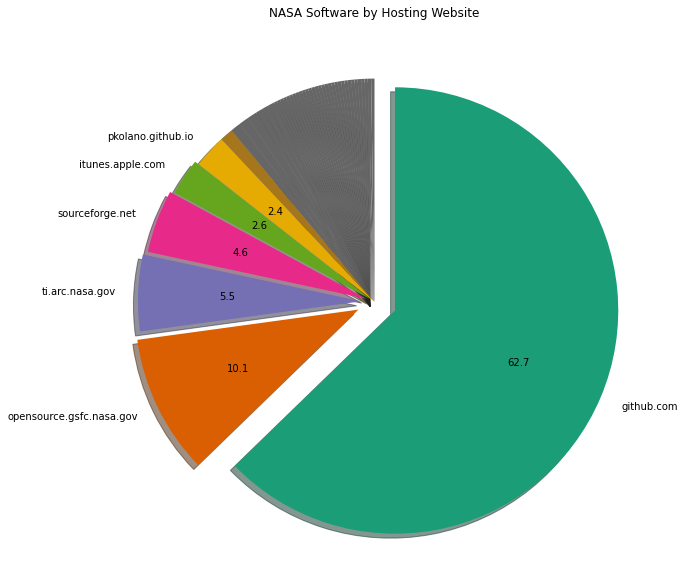
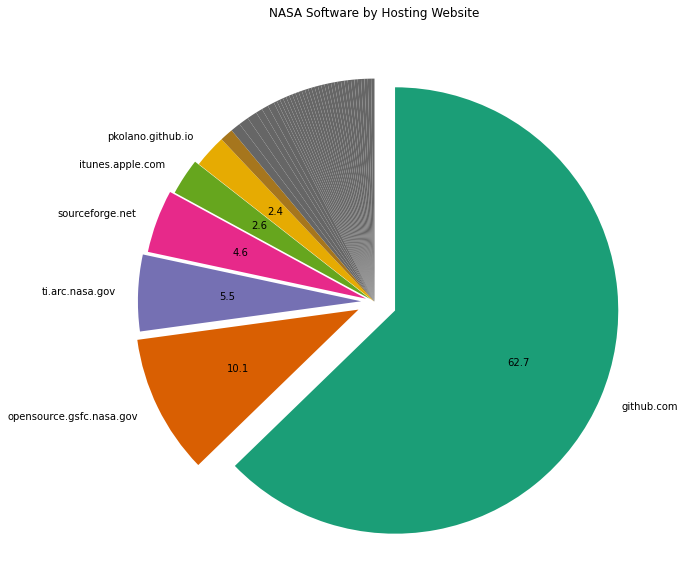
deploy: ad936a2a57856fea38a54e28b867067ce280c618

diff --git a/searchindex.js b/searchindex.js
@@ -1,1 +1,1 @@
-Search.setIndex({docnames:["content/NASA","content/bird","content/cryptanalysis","content/crypto_tools","content/fiction","content/git_scraping","content/interview_with_xinof","content/labeling","content/matplotblog","content/mod26","content/no_padding_no_problem","content/nonfiction","content/photos","content/sklearn_sprint","content/stumpy_tutorial","content/the_numbers","intro"],envversion:{"sphinx.domains.c":2,"sphinx.domains.changeset":1,"sphinx.domains.citation":1,"sphinx.domains.cpp":4,"sphinx.domains.index":1,"sphinx.domains.javascript":2,"sphinx.domains.math":2,"sphinx.domains.python":3,"sphinx.domains.rst":2,"sphinx.domains.std":2,"sphinx.ext.intersphinx":1,"sphinxcontrib.bibtex":7,sphinx:56},filenames:["content/NASA.ipynb","content/bird.ipynb","content/cryptanalysis.md","content/crypto_tools.ipynb","content/fiction.md","content/git_scraping.md","content/interview_with_xinof.md","content/labeling.md","content/matplotblog.md","content/mod26.ipynb","content/no_padding_no_problem.ipynb","content/nonfiction.md","content/photos.md","content/sklearn_sprint.md","content/stumpy_tutorial.md","content/the_numbers.ipynb","intro.md"],objects:{},objnames:{},objtypes:{},terms:{"0":[0,1,3],"0007000000000000001":3,"001":3,"0011":3,"0017000000000000001":3,"0069":3,"01":5,"0111":3,"0149":3,"018178":1,"0182":3,"02":[0,1],"0203":3,"0209":3,"021099999999999997":3,"023":3,"026099999999999998":3,"0271":3,"0288":3,"0398":3,"0432":3,"04549":1,"0592":3,"0602":3,"06280000000000001":3,"0695":3,"0731":3,"0768":3,"0812":3,"08735":1,"087355":1,"091":3,"1":[0,1,3,9,13,15],"10":[0,1],"100":0,"101":0,"102":0,"109":0,"11":[0,1],"118":0,"12":[0,1,3],"120199559973193838354549892082142658207097650252359537516083460817553570005386613360986166000912493892791691164047531246715465233526804393369018699102692997585282405404929642411769685589191403004314951464004606040856090582644697868607882790061040095046085624676496925724241831512872034324551286084224297842637":10,"13":[0,9,15],"14":[0,1,15],"140":0,"144":9,"15":[0,11,15],"16":[0,15],"17":0,"178":1,"178285":1,"18":15,"184":3,"186":3,"189":3,"19":[0,15],"192":10,"19680801":[],"1f":0,"2":[0,1,3,9,10,13,15],"20":[0,12,15],"2014":[],"2021":[1,5,12],"21":15,"2191868119":[],"22":5,"229":0,"24":0,"26":[1,3,9],"27":[0,1],"29":0,"290275030195850039473456618367455885069965748851278076756743720446703314517401359267322769037469251445384426639837648598397":10,"3":[0,1,3,13,15],"300":1,"31":0,"33":0,"33982":1,"34":0,"35":0,"357389":1,"35739":1,"36":1,"39":0,"4":[1,3,11,13],"40":[0,13],"41":[0,1],"43":0,"44":0,"460":1,"5":[0,1,13,15],"50":0,"52":1,"53":1,"56":0,"57":1,"58":[0,1],"580550060391700078946913236734911770139931497702556153513487440893406629034802718534645538074938502890768853279675297196794":10,"6":[13,15],"65537":10,"67":0,"68":15,"7":13,"70":7,"738":1,"76":1,"7663878604603605176178448503196010884137598661534924550657029084967288918950468353300685296575323894095255258617919415054374805989359325652736220230210866108008415526260085801082953500312514266232101295493572110042773495662486665996281526563951110999276024750039987398638060394996693137783011654264697917058":10,"79":[0,1],"791329":1,"8":[1,15],"81":1,"82":1,"9":[1,15],"90":0,"91817":1,"918172":1,"934757":1,"93476":1,"abstract":11,"break":0,"case":[1,7,13],"class":[7,8],"default":1,"do":[2,7,9,13],"final":13,"float":3,"function":[3,13],"import":[0,1,3,9,15],"int":[3,9,10,15],"long":[5,13],"new":[11,13,14],"public":1,"return":[0,3,9,10],"short":[11,13],"switch":13,"true":[0,1,3],"try":3,"while":13,A:[2,13],As:[8,11,13],At:[],Be:13,But:7,By:[1,13],For:[7,10,11],IN:2,If:[7,11],In:[1,5,7,12,13],It:[1,2,4,10,11,13],No:11,Not:4,On:[11,13],One:3,That:[1,13],The:[2,4,5,11,12,13],Their:2,There:[1,11,13],These:2,To:13,With:13,ab:3,abil:13,abl:13,about:[4,7,11,12,13],accept:[7,10],access:13,accru:[],accumul:16,accur:7,accuraci:[1,7],achiev:[10,13],action:5,activ:13,actual:[1,12],ad:13,add:[7,13],add_:[],add_list:7,addition:13,address:1,advent:16,adventur:[11,13],advic:11,aerospac:0,after:13,afterward:7,again:[],against:[3,11],agenc:5,agre:13,ai:13,alba:1,algorithm:7,align:[],all:13,alli:13,allow:[7,12],almost:13,along:[1,11,13],alpha:3,alphabet:[3,9,11,15],alreadi:[7,11,13],also:[1,5,11,13],altern:13,alwai:[1,13],am:13,amaz:13,amazon:4,ambiti:13,an:[1,2,4,7,10,11,13],analysi:[2,5,6,14],ancient:2,anecod:11,ani:[5,13],announc:5,anoth:[1,10,12,13],anyth:[3,9,10,13],api:[0,1],api_kei:0,app:1,append:[0,7],appli:[2,11,13],applic:[11,13],appreci:13,approach:13,approv:13,ar:[1,5,11,12,13],arc:0,ardea:1,area:[11,13],aren:12,argument:13,arkg_gvzr_v:9,armi:16,around:13,arrai:0,art:8,ascend:0,ascii:[3,9],ascii_lowercas:[3,9,15],ash:6,asid:11,ask:13,aspir:13,assign:[7,13],associ:[],attack:[2,10],attract:12,auditori:[],august:12,australia:[],autom:0,automat:7,autopct:0,avail:[5,13],aw:[5,16],awai:12,awesom:13,ax:[0,1],axi:[0,1],b:3,back:[1,2,11,13],balboa:12,bald:1,baleag:1,barh:0,barn:12,barrier:14,beach:12,becaus:13,been:13,befor:[12,13],begin:13,being:[5,13],belong:3,belt:13,benefit:13,best:13,between:5,bewar:3,bia:1,bib:[],bibliographi:[],bibtex:[],bilinear:0,binari:[7,13],bind:5,biol222:8,biotechnolog:0,bird:1,bit:[13,16],block:2,blog:[6,8,13],bodi:[4,12],book:[2,4,11],bool:3,boost:13,bootstrap:13,both:[3,11,13],bound:11,box:[],brian:[],brisban:[],bruce:2,bui:12,build:[5,13],built:11,busi:12,buteo:1,bytearrai:10,c:[3,10],calcul:3,call:[5,13],camoflaug:12,can:[1,7,9,10,11,12,13],candid:[3,13],canva:7,capit:11,captur:12,carmichael:3,carolina:8,carri:1,cascad:5,catalog:5,categor:1,categori:[0,9,15],categorize_sourc:0,causal:11,causat:11,cell:[],certain:[1,11],challeng:2,chang:13,channel:13,chat:13,check:13,chew:11,chi:3,china:4,chines:3,chisquar:3,choic:3,christoph:[],cipher:[2,10],ciphertext:[3,10],ciphertext_p:3,ciphertext_q:3,cisa:5,cite:[],claim:13,clarifi:13,classif:7,classifi:[4,13],clean:7,cleaner:12,clear:13,close:[1,6],closur:6,cluster:7,cm:[],cmap:0,coast:13,coat:0,code:[2,13,16],codebas:13,codebreak:2,cognit:[],cold:[],collect:[0,3,11],color:[0,1,12],colormap:0,column:0,com:0,comgal1:1,command:[],comment:13,commit:[5,13],common:[1,2],commonmark:[],commun:[0,2,8,13],comnam:1,compare_frequ:3,competit:12,complex:[],composit:12,comprehens:2,comput:2,confair:1,confer:13,confid:13,conscious:11,consid:[1,2],consider:1,content:[],context:4,continu:[11,13],contribut:[13,14],contributor:[13,14],control:[0,13],conveni:13,convers:13,convinc:12,cool:13,coolwarm:[],coordin:[1,7],core:13,coronata:1,correct:7,correl:7,cortex:[],cost:12,could:13,count:0,counter:0,counterclock:0,counterfactu:11,countri:[1,11],coupl:[5,13],cours:2,cover:[2,11,13],cp:3,cq:3,crack:11,creat:[8,14],create_description_wordcloud:0,crosstab:0,crt:3,crypto:2,cryptographi:[2,9],cryptosystem:2,cultur:4,curat:13,current:[5,13,16],curv:2,custom_lin:[],cvpbpg:9,cyber:16,cycler:[],d:[1,3,11],dai:[11,12,13],dark2:0,dashboard:5,data:[5,13],datafram:[0,1],dataset:[1,5],date:[2,11],daunt:13,de:[],decid:13,decis:13,decod:10,decreas:13,decrypt:[3,10],decrypt_crt:3,dedic:13,def:[0,3,7,9],defaultdict:3,defin:7,degre:7,deliber:13,demonstr:12,dens:2,denver:11,depend:[],descript:0,design:[0,13],designator1:0,designator2:0,detect:[4,7],develop:13,df:[0,1],dfrc:0,dict:[0,3],did:13,diego:12,differ:[5,13],dimension:7,direct:[5,13],directli:[],discord:13,discuss:13,displai:[],distribut:[3,5],doc:[],document:[1,13,16],doe:[2,5],doesn:[4,11],dollar:[],don:4,done:13,doubl:10,down:[0,6,13],draft:11,drew:3,drip:12,drum:1,ds:13,dtype:0,dure:13,e:[0,3,10],each:[7,13],eagl:1,earli:11,earn:12,easi:[7,9,13],east:13,ebird_api:1,ecosystem:[],editor:11,educ:13,egret:1,egypt:2,either:2,electr:0,electron:0,ellipt:2,els:[0,3,9,15],emb:[],emot:4,en:14,en_freq:3,enabl:[5,7,13],encourag:13,end:[3,13],engag:[11,13],engima:11,enjoi:[11,12,13],enough:7,ensur:13,entertain:[2,4,11],entir:[],entri:0,enumer:[0,3],environ:[0,11,13],escap:[],esoter:11,especi:13,establish:11,estim:11,estuarin:12,etc:[2,11],even:[11,13],event:[7,13],eventu:13,ever:12,everi:[1,12],everyon:12,everyth:13,evid:[],exampl:[7,10,13],except:3,excit:13,exercis:2,exist:[],exot:1,expect:[1,3],experi:[12,13],explod:0,exploit:5,explor:11,exposur:11,extend:7,extens:7,f:[1,3,7],factor:3,fail:13,failur:5,faint:4,fairli:11,fall:11,fals:[0,1,3],fast:3,faster:13,favorit:[11,13,14],feasibl:13,featur:[7,13],feder:5,feedback:13,feel:13,fellow:13,felt:13,fermat:3,fi:4,field:[2,13],fig:[0,1],figsiz:[0,1],figur:13,find:[11,13],finish:13,first:[4,12,13],fish:12,fit:4,fix:[],fl:1,flavor:[],flexibl:13,fluid:0,fly:12,focus:[2,11],follow:13,fonixcrypt:6,fool:12,foothold:13,forest:13,formal:11,format:10,former:16,forth:13,forward:[4,13],found:13,foundat:[5,13],frame:4,free:[1,13],freq:3,frequenc:[2,3],friend:[2,13],friendli:12,froemr:[],from:[0,2,3,6,7,9,10,11,13,14,15],from_record:[0,1],fromhex:10,frontier:[],full:1,fun:[2,4,11,13],fundrais:11,further:7,futur:13,g:3,galeata:1,gallinul:1,gallinula:1,game:13,gave:13,gchq:11,gener:[0,5,7],genr:[4,12],gentlemen:12,geograph:1,geoloc:1,geopanda:1,georgia:16,get:[1,11,13],get_cmap:0,get_path:1,getenv:[0,1],git:13,github:[5,13],give:[5,10,13],given:[3,9],glad:13,go:[2,13],goal:13,good:[2,7,10,13],googl:11,gorda:1,got:[12,13],gov:0,gpd:1,gradient:12,grant:13,grassland:12,gravit:12,grc:0,great:[1,2,4,13],greatli:13,greegr:1,green:11,greensboro:1,group:[2,13],groupbi:0,grow:13,gsfc:0,gui:12,guid:[2,7,14],h:[1,3],ha:[4,13],habit:13,hacktoberfest:14,had:[7,13],half:10,halfwai:13,haliaeetu:1,handl:[7,13],hang:13,hard:[1,13],have:[1,7,10,12,13],hawk:1,hdhpk14:[],he:[5,11,12],head:[0,1],health:0,heard:13,heart:4,heat:12,heer:[],help:[11,13],here:[1,5,12,13],hi:12,highli:11,highlight:13,highwai:1,histor:13,histori:2,hobbi:[12,13],hold:13,holdgraf:[],holdgraf_evidence_2014:[],home:1,homework:13,honest:13,hot:[],hour:[7,13],how:[5,7,11,12,13],howev:[1,11],howmani:1,html:14,http:[0,1,6,8,9,14,15],huddl:13,huge:13,human:11,hunt:12,i:[0,1,2,3,5,6,7,8,11,12,13,14],idea:[4,5,11,13],ideal:13,ii:11,illustr:[2,13],imag:[],immedi:[11,13],imperi:12,implement:[2,13],improv:13,imshow:0,includ:13,includeprovision:1,inclus:13,increas:13,incred:[4,12,13],index:[0,3,7,9],indexerror:3,indic:13,inform:[0,1],init:[],input:[],insecur:1,insert:[],insid:[],insight:11,instead:[7,13],instrument:0,int64:0,integ:10,integr:13,intellectu:16,intend:13,intens:2,interact:7,interest:[5,11,13],intern:[],internet:2,interpol:0,interview:[],intro:[],introduct:[2,13],invit:11,involv:[2,13],io:[0,14],ion:[],ipykernel_498:[],ipynb:[],is_prime_fermat:3,isn:[7,12],iso_a3:1,isol:11,issu:13,itali:12,its:[11,13],j:3,jackson:1,jamaicensi:1,job:2,john:11,joi:2,join:[0,3,9,15],joke:13,journal:11,jpl:0,jsc:0,json:[0,1],jump:13,junior:13,jupyt:7,jupytext:[],just:[4,7,12,13],k:3,kedit:11,keep:[],kei:[0,1,3,7,13],kept:13,kernel:[],key_press_ev:7,keyword:13,kind:0,king:11,knight:[],knock:13,know:[1,5,9,10,11,13],knowledg:[11,16],known:[2,5,10],korea:4,ksc:0,l13621404:1,l17018671:1,l17018703:1,l17018716:1,l:3,la_:[],label:0,lack:11,ladder:11,ladi:13,lang_dict:3,languag:3,larc:0,larg:13,last:[1,13],lat:1,late:7,later:13,latest:14,latitud:1,layer:12,lazi:12,leak:1,learn:[],least:1,leav:13,left:13,legend:[],len:[0,1,3],length:3,lengthi:11,less:[],lesson:[6,13],letter:[3,9],leucocephalu:1,level:13,librari:[13,14],licens:0,life:4,lightgrei:1,like:[1,3,12,13],likewis:7,liklihood:3,line2d:[],line:[],linkedin:16,linspac:[],list:[0,1,3,5,7,13],littl:[12,13],ll:[0,10],ll_try_2_rounds_of_rot13_hwqfsgzu:9,lng:1,local:12,locat:[1,7,13],locationpriv:1,locid:1,locnam:1,log:3,logic:2,logspac:[],longitud:1,look:[0,13],lookup:3,lot:[7,13],lower:[3,9,14],lowercas:[3,9],lstrip:0,luck:10,luxuri:13,lw:[],m4yb3_th0se_m3s54g3s_4r3_difurrent_1772735:10,m:[3,5,12],machin:13,made:13,madman:[],mai:[1,7,11,13],main:7,mainli:2,maintain:13,major:7,make:[7,13],malleabl:10,manag:11,mani:[2,11,13],manufactur:0,markedli:[],market:12,markup:[],master:4,materi:[0,11,13],math:[2,16],matplotlib:[0,1,7,8],maxim:13,mbox:[],md:[],me:[7,11,12,13],mean:[],mechan:0,medicin:0,medium:[],meet:12,member:13,memori:1,messag:[10,13],metadata:[],method:7,metro:13,might:13,minist:11,minut:13,mistak:2,ml:13,mod_multiplicative_invers:3,model:7,modern:2,modul:[],modulenotfounderror:[],monoalphabet:3,month:13,more:[1,3,11,13],moreov:[],most:13,most_common:0,mouseov:7,move:1,mover:13,mpl_connect:7,msfc:0,much:[11,13],multiclass:7,multipl:1,must:3,my:[7,11,12,13,14,16],mydirectivenam:[],n:[3,9,10],name:[0,1,11],narr:11,nasa_api:0,nation:12,natur:[12,13],naturalearth_lowr:1,nb:[],nc:1,neatli:4,necessari:7,need:[7,13],net:0,neurosci:[],next:[7,13],next_time_i:9,nicknam:1,night:13,noir:4,non:[1,2,13],none:3,north:[4,8],note:[2,3],notebook:[],novel:4,novemb:[5,12],now:13,np:0,nuanc:13,numpi:0,nyc:13,o:3,ob:1,obsdt:1,observ:3,obsreview:1,obsvalid:1,obtain:3,octob:12,off:[0,1,13],often:13,old:[2,11,13],omsc:16,onc:5,one:[1,13,14],ongo:13,onkei:7,onli:[1,4,5,11,13],open:[13,14],oper:[5,6,7],opportun:13,optic:0,option:13,oracl:[7,10],org:[0,1,6,8,9,15],organ:13,origin:[4,13],orphan:4,os:[0,1],other:[1,7,11,13],otherwis:13,otp:2,our:13,out:[4,12,13],outag:5,outliv:13,output:[],over:[1,7,13],owl:12,own:[11,13],p:3,paar:[3,10],page:[9,15],pai:11,pair:13,panda:[0,1],paramet:13,pari:13,park:12,part:[4,8,11,13],particip:[11,13],particularli:12,partner:13,paslei:[],pass:[3,9,13],patch:5,path:[],pattern:5,pct:0,pd:[0,1],peak:7,pearl:11,pennsyl:1,peopl:[11,13],perfect:7,person:[1,13],perspect:13,pezl:3,pg:3,phenomen:13,philosophi:13,phonet:11,pick:[11,13],picoctf:2,pie:0,piec:[5,11],pier:12,pike:12,pin:1,pioneer:5,pipelin:13,pit:11,place:[1,12],plai:[1,9,15],plain_p:3,plain_q:3,plainfield:1,plaintext:[2,10],plan:13,plot:[0,1,7],plt:[0,1],plug:11,point:[13,16],ponto:12,pooch:12,popular:13,posit:[3,7],post:8,pow:10,power:0,practic:[9,15],practition:2,pre:[],predict:[4,7],prepar:13,preparatori:13,pretti:12,primal:3,primari:13,prime:11,principl:7,print:[1,10],privaci:1,prize:4,probabalist:3,probabl:[7,13],problem:[1,4,7],product:[7,13],profess:2,profession:11,program:13,programm:13,progress:13,project:[1,13,14],prompt:11,prop_cycl:[],properli:[],propos:13,propuls:0,prototyp:[3,13],proud:12,provid:[0,13],publish:[8,11],pulitz:4,pull:13,punta:1,pure:4,purpos:[],put:13,puzzl:11,puzzler:11,py:[],pyladi:13,pyplot:[0,1,8],python:13,pythonista:13,q:3,quantum:2,quarantin:12,quick:13,quit:13,r:[0,1,3],race:13,rail:12,rais:3,rambl:[],ramona:12,ramsai:[],randn:[],random:3,rang:[0,3],ransomwar:6,rapidli:11,rcparam:[],rd:1,re:11,read:[2,3,11,13],read_fil:1,readi:13,readthedoc:14,realiz:13,realli:[2,13],receiv:[10,13],recent:1,recommend:[2,7,11,13],record:[1,13],recoveri:5,red:1,reduc:13,refer:[],reflect:13,regressor:13,regular:[],regularli:5,rel:[1,13],relat:12,relationship:13,relev:13,reli:1,remaind:3,rememb:1,remot:13,remov:7,remove_list:7,renam:1,render:[],replac:[0,3,10],report:1,repositori:13,repres:13,reproduc:[],request:[0,1,13],requir:[5,11],research:[4,11,12,13],reserv:12,reshama:13,resourc:[2,11,13],respond:13,respons:13,rest:[],restrict:1,result:[0,3,10,11],rethaw:1,reus:2,review:[1,11,13],revis:11,ride:[4,11],river:12,roadrunn:12,robert:[],robot:0,rolenam:[],ron:1,rot13:9,rot:[3,9],rough:13,round:7,rsa:[2,10],rule:11,rump:1,run:[],s98364480:1,s98364615:1,s98364710:1,s98364774:1,s:[1,3,4,7,8,10,11,12],sai:13,said:13,same:3,sampl:[],san:12,saturdai:[12,13],save:7,saw:13,scatter:1,scheme:2,schneier:2,sci:4,scienc:[2,4,13],scientif:1,scientist:13,scikit:[],scinam:1,scipi:3,scratch:7,screen:13,scroll:7,search:0,search_str:0,seattl:12,second:13,secreci:2,secret:[2,10],securityandtechnolog:6,see:[1,7,12,13],seed:[],seek:13,seem:[1,2,13],select:13,self:[1,2],sens:13,sensor:0,sent:13,septemb:12,seri:[4,5,7,14],serv:[],servic:6,set:13,set_titl:0,set_xlabel:0,setophaga:1,setup:13,sever:13,shadow:0,shaikh:13,shaker:13,share:[11,13],shoot:13,shot:12,should:[1,11,13],show:[0,1],side:3,sign:[],signifi:3,significant_autopct:0,significant_label:0,similar:13,simon:5,simplest:[],size:0,slight:[],slot:13,slow:2,small:12,so:[1,13],softwar:13,solut:[1,2],solv:[3,13],some:[1,4,7,11,12,13],someon:13,someth:[1,13],sometim:13,somewhat:[1,2],somewher:1,son:4,sort:13,sort_valu:0,sound:13,sourc:[13,14],space:13,span:[],speciescod:1,specif:11,speedup:3,spend:[7,13],spent:[7,13],sphinx:[],split:0,spoke:12,spout:11,sprint:[],squar:3,ssc:0,stack:0,stand:13,stanford:2,start:[3,12,13],startangl:0,stat:3,state:[],statist:11,statu:5,steampunk:4,stephen:11,stick:13,still:13,stop:4,storag:0,store:[],stori:11,str:[0,3,9],stream:7,street:[1,12],strengthen:13,string:[9,15],strongli:7,structur:[5,11],struggl:13,student:2,studi:2,stumpi:[],stunt:12,subid:1,submit:13,subplot:[0,1],subscrib:11,subscript:11,substandard:7,substitut:3,success:13,successfulli:13,sum:0,sunset:12,supervis:7,suprisingli:11,sure:13,surf:12,surround:11,survei:2,swahaw:1,swainson:1,swainsoni:1,sweat:12,syllabu:2,syntax:[],system:[0,5,7],t:[3,4,7,11,12],tabl:13,tackl:13,tactic:11,tag:13,tail:1,take:[7,10,11,13],taken:[12,13],tale:4,talk:[12,13],task:7,tatter:11,taught:13,tdameritrad:14,team:[8,13],tech:16,techniqu:5,technolog:0,techtransf:0,tell:12,test:[3,13],tex:[],text:[0,1,10,11],textbook:2,than:[11,13],thank:13,thei:[1,5,11,13],them:[0,7,11],thenumbersmason:15,theorem:3,thi:[1,4,5,7,10,11,12,13],thing:[11,13],think:13,those:[1,11],though:12,thought:13,three:4,threw:12,through:[2,3,7,11,13,16],tick:13,tijuana:12,time:[1,2,5,7,13,14],tip:[12,13],titl:0,tmp:[],todo:1,togeth:[11,13],toi:13,took:2,tool:[],top_level:0,total:3,tourist:12,toward:12,town:11,traceback:[],tracker:13,tradit:11,train:[7,13],transform:10,tree:13,troubl:13,truncat:1,trust:1,turn:[12,13],tweet:13,twenti:2,twitter:[13,16],two:[5,7,11,12,13],type:[1,3,15],u:3,uk:11,umbrella:13,unc:8,uncertainti:[1,7],undefin:0,under:[4,13],underli:13,understand:[2,13],unfinish:13,unintend:13,uniqu:1,unique_id:0,unit:13,univers:8,unk1:0,unk2:0,unk3:0,unk4:0,unlik:1,unsupervis:7,until:1,up:[1,7,11],updat:[5,13],url:[0,1],us:[5,7,8,10,13,16],usa:1,user:1,v2:1,v:[0,3],valid:[1,2],valu:0,valuabl:13,valueerror:3,variat:[],ve:11,vendor:5,venic:1,veri:[2,12,13],version:13,vi:13,virtual:13,visibl:1,visit:13,voic:13,volunt:13,vs:13,vulner:5,w:3,wa:[6,11,12,13],wai:[11,13],wander:16,want:[13,14],warbler:1,warn:3,wast:13,water:12,we:[0,1,7,10,13,14],weak:2,websit:0,welcom:[10,13],well:[4,12],wendi:[],were:[1,13],west:16,what:[3,9,13],when:[1,7,12],where:[7,13],wherea:[],whether:[],which:[10,11,13],who:[6,11,13],whole:13,why:[1,11,13],wife:11,wild:[4,11],willing:13,willison:5,win:[7,13],wise:13,wit:[11,12],within:13,without:[12,13],won:4,wordcloud:0,work:[7,11,13,16],workflow:13,world:11,worri:13,worthwhil:1,would:[1,2,7,13],wrapper:13,write:[11,13],written:[],www:0,x:[1,3,7,10],xdata:7,y:[1,3,10],yard:[1,12],year:[2,13],yellow:1,yerwar:1,yesterdai:13,yorker:11,you:[1,7,9,10,11,12,13],young:13,your:[1,7,11,13],yy_gel_2_ebhaqf_bs_ebg13_ujdsftmh:9,z:[1,3,7],zero:0,zoom:7},titles:["NASA Data","Cornell eBird","Cryptanalysis Curriculum","Crypto Tools","Fiction","Git Scraping","Interview with Xinof","Data Labeling Tip","Matplotblog","PicoCTF Challenge: Mod26","PicoCTF Challenge: No Padding, No Problem","Nonfiction","Photography","Scikit-Learn Sprint","STUMPY Tutorial","PicoCTF Challenge: The Numbers","Blog"],titleterms:{"7":1,"do":0,And:0,In:2,No:10,The:15,about:16,ad:[],ar:[],base:3,bit:3,block:[],blog:16,certain:0,challeng:[9,10,15],charact:3,citat:[],code:[],complet:2,content:[],cornel:1,cryptanalysi:2,crypto:3,curriculum:2,dai:1,data:[0,1,7],direct:[],ebird:1,execut:[],explor:1,fiction:4,file:[],found:2,get:0,git:5,host:0,interview:6,label:7,larg:3,learn:13,manipul:3,markdown:[],math:3,matplotblog:8,me:16,mod26:9,myst:[],nasa:0,need:2,nonfict:11,notebook:[],number:[3,15],observ:1,output:[],pad:10,past:1,patent:0,photographi:12,picoctf:[9,10,15],problem:10,progress:2,review:2,role:[],scikit:13,scrape:5,shortcut:3,softwar:0,sourc:0,special:0,sprint:13,statist:3,still:2,string:3,stumpi:14,tip:7,tool:3,tutori:14,us:1,what:0,where:0,who:0,xinof:6,your:[]}})
+Search.setIndex({docnames:["content/NASA","content/bird","content/cryptanalysis","content/crypto_tools","content/fiction","content/git_scraping","content/interview_with_xinof","content/labeling","content/matplotblog","content/mod26","content/no_padding_no_problem","content/nonfiction","content/photos","content/sklearn_sprint","content/stumpy_tutorial","content/the_numbers","intro"],envversion:{"sphinx.domains.c":2,"sphinx.domains.changeset":1,"sphinx.domains.citation":1,"sphinx.domains.cpp":4,"sphinx.domains.index":1,"sphinx.domains.javascript":2,"sphinx.domains.math":2,"sphinx.domains.python":3,"sphinx.domains.rst":2,"sphinx.domains.std":2,"sphinx.ext.intersphinx":1,"sphinxcontrib.bibtex":7,sphinx:56},filenames:["content/NASA.ipynb","content/bird.ipynb","content/cryptanalysis.md","content/crypto_tools.ipynb","content/fiction.md","content/git_scraping.md","content/interview_with_xinof.md","content/labeling.md","content/matplotblog.md","content/mod26.ipynb","content/no_padding_no_problem.ipynb","content/nonfiction.md","content/photos.md","content/sklearn_sprint.md","content/stumpy_tutorial.md","content/the_numbers.ipynb","intro.md"],objects:{},objnames:{},objtypes:{},terms:{"0":[0,1,3],"0007000000000000001":3,"001":3,"0011":3,"0017000000000000001":3,"0069":3,"01":5,"0111":3,"0149":3,"018178":1,"0182":3,"02":[0,1],"0203":3,"0209":3,"021099999999999997":3,"023":3,"026099999999999998":3,"0271":3,"0288":3,"0398":3,"0432":3,"04549":1,"0592":3,"0602":3,"06280000000000001":3,"0695":3,"0731":3,"0768":3,"0812":3,"08735":1,"087355":1,"091":3,"1":[0,1,3,9,13,15],"10":[0,1],"100":0,"101":0,"102":0,"109":0,"11":[0,1],"118":0,"12":[0,1,3],"120199559973193838354549892082142658207097650252359537516083460817553570005386613360986166000912493892791691164047531246715465233526804393369018699102692997585282405404929642411769685589191403004314951464004606040856090582644697868607882790061040095046085624676496925724241831512872034324551286084224297842637":10,"13":[0,9,15],"14":[0,1,15],"140":0,"144":9,"15":[0,11,15],"16":[0,15],"17":0,"178":1,"178285":1,"18":15,"184":3,"186":3,"189":3,"19":[0,15],"192":10,"19680801":[],"1f":0,"2":[0,1,3,9,10,13,15],"20":[0,12,15],"2014":[],"2021":[1,5,12],"21":15,"2191868119":[],"22":5,"229":0,"24":0,"26":[1,3,9],"27":[0,1],"29":0,"290275030195850039473456618367455885069965748851278076756743720446703314517401359267322769037469251445384426639837648598397":10,"3":[0,1,3,13,15],"300":1,"31":0,"33":0,"33982":1,"34":0,"35":0,"357389":1,"35739":1,"36":1,"39":0,"4":[1,3,11,13],"40":[0,13],"41":[0,1],"43":0,"44":0,"460":1,"5":[0,1,13,15],"50":0,"52":1,"53":1,"56":0,"57":1,"58":[0,1],"580550060391700078946913236734911770139931497702556153513487440893406629034802718534645538074938502890768853279675297196794":10,"6":[13,15],"65537":10,"67":0,"68":15,"7":13,"70":7,"738":1,"76":1,"7663878604603605176178448503196010884137598661534924550657029084967288918950468353300685296575323894095255258617919415054374805989359325652736220230210866108008415526260085801082953500312514266232101295493572110042773495662486665996281526563951110999276024750039987398638060394996693137783011654264697917058":10,"79":[0,1],"791329":1,"8":[1,15],"81":1,"82":1,"9":[1,15],"90":0,"91817":1,"918172":1,"934757":1,"93476":1,"abstract":11,"break":0,"case":[1,7,13],"class":[7,8],"default":1,"do":[2,7,9,13],"final":13,"float":3,"function":[3,13],"import":[0,1,3,9,15],"int":[3,9,10,15],"long":[5,13],"new":[11,13,14],"public":1,"return":[0,3,9,10],"short":[11,13],"switch":13,"true":[0,1,3],"try":3,"while":13,A:[2,13],As:[8,11,13],At:[],Be:13,But:7,By:[1,13],For:[7,10,11],IN:2,If:[7,11],In:[1,5,7,12,13],It:[1,2,4,10,11,13],No:11,Not:4,On:[11,13],One:3,That:[1,13],The:[2,4,5,11,12,13],Their:2,There:[1,11,13],These:2,To:13,With:13,ab:3,abil:13,abl:13,about:[4,7,11,12,13],accept:[7,10],access:13,accru:[],accumul:16,accur:7,accuraci:[1,7],achiev:[10,13],action:5,activ:13,actual:[1,12],ad:13,add:[7,13],add_:[],add_list:7,addition:13,address:1,advent:16,adventur:[11,13],advic:11,aerospac:0,after:13,afterward:7,again:[],against:[3,11],agenc:5,agre:13,ai:13,alba:1,algorithm:7,align:[],all:13,alli:13,allow:[7,12],almost:13,along:[1,11,13],alpha:3,alphabet:[3,9,11,15],alreadi:[7,11,13],also:[1,5,11,13],altern:13,alwai:[1,13],am:13,amaz:13,amazon:4,ambiti:13,an:[1,2,4,7,10,11,13],analysi:[2,5,6,14],ancient:2,anecod:11,ani:[5,13],announc:5,anoth:[1,10,12,13],anyth:[3,9,10,13],api:[0,1],api_kei:0,app:1,append:[0,7],appli:[2,11,13],applic:[11,13],appreci:13,approach:13,approv:13,ar:[1,5,11,12,13],arc:0,ardea:1,area:[11,13],aren:12,argument:13,arkg_gvzr_v:9,armi:16,around:13,arrai:0,art:8,ascend:0,ascii:[3,9],ascii_lowercas:[3,9,15],ash:6,asid:11,ask:13,aspir:13,assign:[7,13],associ:[],attack:[2,10],attract:12,auditori:[],august:12,australia:[],autom:0,automat:7,autopct:0,avail:[5,13],aw:[5,16],awai:12,awesom:13,ax:[0,1],axi:[0,1],b:3,back:[1,2,11,13],balboa:12,bald:1,baleag:1,barh:0,barn:12,barrier:14,beach:12,becaus:13,been:13,befor:[12,13],begin:13,being:[5,13],belong:3,belt:13,benefit:13,best:13,between:5,bewar:3,bia:1,bib:[],bibliographi:[],bibtex:[],bilinear:0,binari:[7,13],bind:5,biol222:8,biotechnolog:0,bird:1,bit:[13,16],block:2,blog:[6,8,13],bodi:[4,12],book:[2,4,11],bool:3,boost:13,bootstrap:13,both:[3,11,13],bound:11,box:[],brian:[],brisban:[],bruce:2,bui:12,build:[5,13],built:11,busi:12,buteo:1,bytearrai:10,c:[3,10],calcul:3,call:[5,13],camoflaug:12,can:[1,7,9,10,11,12,13],candid:[3,13],canva:7,capit:11,captur:12,carmichael:3,carolina:8,carri:1,cascad:5,catalog:5,categor:1,categori:[0,9,15],categorize_sourc:0,causal:11,causat:11,cell:[],certain:[1,11],challeng:2,chang:13,channel:13,chat:13,check:13,chew:11,chi:3,china:4,chines:3,chisquar:3,choic:3,christoph:[],cipher:[2,10],ciphertext:[3,10],ciphertext_p:3,ciphertext_q:3,cisa:5,cite:[],claim:13,clarifi:13,classif:7,classifi:[4,13],clean:7,cleaner:12,clear:13,close:[1,6],closur:6,cluster:7,cm:[],cmap:0,coast:13,coat:0,code:[2,13,16],codebas:13,codebreak:2,cognit:[],cold:[],collect:[0,3,11],color:[0,1,12],colormap:0,column:0,com:0,comgal1:1,command:[],comment:13,commit:[5,13],common:[1,2],commonmark:[],commun:[0,2,8,13],comnam:1,compare_frequ:3,competit:12,complex:[],composit:12,comprehens:2,comput:2,confair:1,confer:13,confid:13,conscious:11,consid:[1,2],consider:1,content:[],context:4,continu:[11,13],contribut:[13,14],contributor:[13,14],control:[0,13],conveni:13,convers:13,convinc:12,cool:13,coolwarm:[],coordin:[1,7],core:13,coronata:1,correct:7,correl:7,cortex:[],cost:12,could:13,count:0,counter:0,counterclock:0,counterfactu:11,countri:[1,11],coupl:[5,13],cours:2,cover:[2,11,13],cp:3,cq:3,crack:11,creat:[8,14],create_description_wordcloud:0,crosstab:0,crt:3,crypto:2,cryptographi:[2,9],cryptosystem:2,cultur:4,curat:13,current:[5,13,16],curv:2,custom_lin:[],cvpbpg:9,cyber:16,cycler:[],d:[1,3,11],dai:[11,12,13],dark2:0,dashboard:5,data:[5,13],datafram:[0,1],dataset:[1,5],date:[2,11],daunt:13,de:[],decid:13,decis:13,decod:10,decreas:13,decrypt:[3,10],decrypt_crt:3,dedic:13,def:[0,3,7,9],defaultdict:3,defin:7,degre:7,deliber:13,demonstr:12,dens:2,denver:11,depend:[],descript:0,design:[0,13],designator1:0,designator2:0,detect:[4,7],develop:13,df:[0,1],dfrc:0,dict:[0,3],did:13,diego:12,differ:[5,13],dimension:7,direct:[5,13],directli:[],discord:13,discuss:13,displai:[],distribut:[3,5],doc:[],document:[1,13,16],doe:[2,5],doesn:[4,11],dollar:[],don:4,done:13,doubl:10,down:[0,6,13],draft:11,drew:3,drip:12,drum:1,ds:13,dtype:0,dure:13,e:[0,3,10],each:[7,13],eagl:1,earli:11,earn:12,easi:[7,9,13],east:13,ebird_api:1,ecosystem:[],editor:11,educ:13,egret:1,egypt:2,either:2,electr:0,electron:0,ellipt:2,els:[0,3,9,15],emb:[],emot:4,en:14,en_freq:3,enabl:[5,7,13],encourag:13,end:[3,13],engag:[11,13],engima:11,enjoi:[11,12,13],enough:7,ensur:13,entertain:[2,4,11],entir:[],entri:0,enumer:[0,3],environ:[0,11,13],escap:[],esoter:11,especi:13,establish:11,estim:11,estuarin:12,etc:[2,11],even:[11,13],event:[7,13],eventu:13,ever:12,everi:[1,12],everyon:12,everyth:13,evid:[],exampl:[7,10,13],except:3,excit:13,exercis:2,exist:[],exot:1,expect:[1,3],experi:[12,13],explod:0,exploit:5,explor:11,exposur:11,extend:7,extens:7,f:[1,3,7],factor:3,fail:13,failur:5,faint:4,fairli:11,fall:11,fals:[0,1,3],fast:3,faster:13,favorit:[11,13,14],feasibl:13,featur:[7,13],feder:5,feedback:13,feel:13,fellow:13,felt:13,fermat:3,fi:4,field:[2,13],fig:[0,1],figsiz:[0,1],figur:13,find:[11,13],finish:13,first:[4,12,13],fish:12,fit:4,fix:[],fl:1,flavor:[],flexibl:13,fluid:0,fly:12,focus:[2,11],follow:13,fonixcrypt:6,fool:12,foothold:13,forest:13,formal:11,format:10,former:16,forth:13,forward:[4,13],found:13,foundat:[5,13],frame:4,free:[1,13],freq:3,frequenc:[2,3],friend:[2,13],friendli:12,froemr:[],from:[0,2,3,6,7,9,10,11,13,14,15],from_record:[0,1],fromhex:10,frontier:[],full:1,fun:[2,4,11,13],fundrais:11,further:7,futur:13,g:3,galeata:1,gallinul:1,gallinula:1,game:13,gave:13,gchq:11,gener:[0,5,7],genr:[4,12],gentlemen:12,geograph:1,geoloc:1,geopanda:1,georgia:16,get:[1,11,13],get_cmap:0,get_path:1,getenv:[0,1],git:13,github:[5,13],give:[5,10,13],given:[3,9],glad:13,go:[2,13],goal:13,good:[2,7,10,13],googl:11,gorda:1,got:[12,13],gov:0,gpd:1,gradient:12,grant:13,grassland:12,gravit:12,grc:0,great:[1,2,4,13],greatli:13,greegr:1,green:11,greensboro:1,group:[2,13],groupbi:0,grow:13,gsfc:0,gui:12,guid:[2,7,14],h:[1,3],ha:[4,13],habit:13,hacktoberfest:14,had:[7,13],half:10,halfwai:13,haliaeetu:1,handl:[7,13],hang:13,hard:[1,13],have:[1,7,10,12,13],hawk:1,hdhpk14:[],he:[5,11,12],head:[0,1],health:0,heard:13,heart:4,heat:12,heer:[],help:[11,13],here:[1,5,12,13],hi:12,highli:11,highlight:13,highwai:1,histor:13,histori:2,hobbi:[12,13],hold:13,holdgraf:[],holdgraf_evidence_2014:[],home:1,homework:13,honest:13,hot:[],hour:[7,13],how:[5,7,11,12,13],howev:[1,11],howmani:1,html:14,http:[0,1,6,8,9,14,15],huddl:13,huge:13,human:11,hunt:12,i:[0,1,2,3,5,6,7,8,11,12,13,14],idea:[4,5,11,13],ideal:13,ii:11,illustr:[2,13],imag:[],immedi:[11,13],imperi:12,implement:[2,13],improv:13,imshow:0,includ:13,includeprovision:1,inclus:13,increas:13,incred:[4,12,13],index:[0,3,7,9],indexerror:3,indic:13,inform:[0,1],init:[],input:[],insecur:1,insert:[],insid:[],insight:11,instead:[7,13],instrument:0,int64:0,integ:10,integr:13,intellectu:16,intend:13,intens:2,interact:7,interest:[5,11,13],intern:[],internet:2,interpol:0,interview:[],intro:[],introduct:[2,13],invit:11,involv:[2,13],io:[0,14],ion:[],ipykernel_498:[],ipynb:[],is_prime_fermat:3,isn:[7,12],iso_a3:1,isol:11,issu:13,itali:12,its:[11,13],j:3,jackson:1,jamaicensi:1,job:2,john:11,joi:2,join:[0,3,9,15],joke:13,journal:11,jpl:0,jsc:0,json:[0,1],jump:13,junior:13,jupyt:7,jupytext:[],just:[4,7,12,13],k:3,kedit:11,keep:[],kei:[0,1,3,7,13],kept:13,kernel:[],key_press_ev:7,keyword:13,kind:0,king:11,knight:[],knock:13,know:[1,5,9,10,11,13],knowledg:[11,16],known:[2,5,10],korea:4,ksc:0,l13621404:1,l17018671:1,l17018703:1,l17018716:1,l:3,la_:[],label:0,lack:11,ladder:11,ladi:13,lang_dict:3,languag:3,larc:0,larg:13,last:[1,13],lat:1,late:7,later:13,latest:14,latitud:1,layer:12,lazi:12,leak:1,learn:[],least:1,leav:13,left:13,legend:[],len:[0,1,3],length:3,lengthi:11,less:[],lesson:[6,13],letter:[3,9],leucocephalu:1,level:13,librari:[13,14],licens:0,life:4,lightgrei:1,like:[1,3,12,13],likewis:7,liklihood:3,line2d:[],line:[],linkedin:16,linspac:[],list:[0,1,3,5,7,13],littl:[12,13],ll:[0,10],ll_try_2_rounds_of_rot13_hwqfsgzu:9,lng:1,local:12,locat:[1,7,13],locationpriv:1,locid:1,locnam:1,log:3,logic:2,logspac:[],longitud:1,look:[0,13],lookup:3,lot:[7,13],lower:[3,9,14],lowercas:[3,9],lstrip:0,luck:10,luxuri:13,lw:[],m4yb3_th0se_m3s54g3s_4r3_difurrent_1772735:10,m:[3,5,12],machin:13,made:13,madman:[],mai:[1,7,11,13],main:7,mainli:2,maintain:13,major:7,make:[7,13],malleabl:10,manag:11,mani:[2,11,13],manufactur:0,markedli:[],market:12,markup:[],master:4,materi:[0,11,13],math:[2,16],matplotlib:[0,1,7,8],maxim:13,mbox:[],md:[],me:[7,11,12,13],mean:[],mechan:0,medicin:0,medium:[],meet:12,member:13,memori:1,messag:[10,13],metadata:[],method:7,metro:13,might:13,minist:11,minut:13,mistak:2,ml:13,mod_multiplicative_invers:3,model:7,modern:2,modul:[],modulenotfounderror:[],monoalphabet:3,month:13,more:[1,3,11,13],moreov:[],most:13,most_common:0,mouseov:7,move:1,mover:13,mpl_connect:7,msfc:0,much:[11,13],multiclass:7,multipl:1,must:3,my:[7,11,12,13,14,16],mydirectivenam:[],n:[3,9,10],name:[0,1,11],narr:11,nasa_api:0,nation:12,natur:[12,13],naturalearth_lowr:1,nb:[],nc:1,neatli:4,necessari:7,need:[7,13],net:0,neurosci:[],next:[7,13],next_time_i:9,nicknam:1,night:13,noir:4,non:[1,2,13],none:3,north:[4,8],note:[2,3],notebook:[],novel:4,novemb:[5,12],now:13,np:0,nuanc:13,numpi:0,nyc:13,o:3,ob:1,obsdt:1,observ:3,obsreview:1,obsvalid:1,obtain:3,octob:12,off:[0,1,13],often:13,old:[2,11,13],omsc:16,onc:5,one:[1,13,14],ongo:13,onkei:7,onli:[1,4,5,11,13],open:[13,14],oper:[5,6,7],opportun:13,optic:0,option:13,oracl:[7,10],org:[0,1,6,8,9,15],organ:13,origin:[4,13],orphan:4,os:[0,1],other:[1,7,11,13],otherwis:13,otp:2,our:13,out:[4,12,13],outag:5,outliv:13,output:[],over:[1,7,13],owl:12,own:[11,13],p:3,paar:[3,10],page:[9,15],pai:11,pair:13,panda:[0,1],paramet:13,pari:13,park:12,part:[4,8,11,13],particip:[11,13],particularli:12,partner:13,paslei:[],pass:[3,9,13],patch:5,path:[],pattern:5,pct:0,pd:[0,1],peak:7,pearl:11,pennsyl:1,peopl:[11,13],perfect:7,person:[1,13],perspect:13,pezl:3,pg:3,phenomen:13,philosophi:13,phonet:11,pick:[11,13],picoctf:2,pie:0,piec:[5,11],pier:12,pike:12,pin:1,pioneer:5,pipelin:13,pit:11,place:[1,12],plai:[1,9,15],plain_p:3,plain_q:3,plainfield:1,plaintext:[2,10],plan:13,plot:[0,1,7],plt:[0,1],plug:11,point:[13,16],ponto:12,pooch:12,popular:13,posit:[3,7],post:8,pow:10,power:0,practic:[9,15],practition:2,pre:[],predict:[4,7],prepar:13,preparatori:13,pretti:12,primal:3,primari:13,prime:11,principl:7,print:[1,10],privaci:1,prize:4,probabalist:3,probabl:[7,13],problem:[1,4,7],product:[7,13],profess:2,profession:11,program:13,programm:13,progress:13,project:[1,13,14],prompt:11,prop_cycl:[],properli:[],propos:13,propuls:0,prototyp:[3,13],proud:12,provid:[0,13],publish:[8,11],pulitz:4,pull:13,punta:1,pure:4,purpos:[],put:13,puzzl:11,puzzler:11,py:[],pyladi:13,pyplot:[0,1,8],python:13,pythonista:13,q:3,quantum:2,quarantin:12,quick:13,quit:13,r:[0,1,3],race:13,rail:12,rais:3,rambl:[],ramona:12,ramsai:[],randn:[],random:3,rang:[0,3],ransomwar:6,rapidli:11,rcparam:[],rd:1,re:11,read:[2,3,11,13],read_fil:1,readi:13,readthedoc:14,realiz:13,realli:[2,13],receiv:[10,13],recent:1,recommend:[2,7,11,13],record:[1,13],recoveri:5,red:1,reduc:13,refer:[],reflect:13,regressor:13,regular:[],regularli:5,rel:[1,13],relat:12,relationship:13,relev:13,reli:1,remaind:3,rememb:1,remot:13,remov:7,remove_list:7,renam:1,render:[],replac:[0,3,10],report:1,repositori:13,repres:13,reproduc:[],request:[0,1,13],requir:[5,11],research:[4,11,12,13],reserv:12,reshama:13,resourc:[2,11,13],respond:13,respons:13,rest:[],restrict:1,result:[0,3,10,11],rethaw:1,reus:2,review:[1,11,13],revis:11,ride:[4,11],river:12,roadrunn:12,robert:[],robot:0,rolenam:[],ron:1,rot13:9,rot:[3,9],rough:13,round:7,rsa:[2,10],rule:11,rump:1,run:[],s98364480:1,s98364615:1,s98364710:1,s98364774:1,s:[1,3,4,7,8,10,11,12],sai:13,said:13,same:3,sampl:[],san:12,saturdai:[12,13],save:7,saw:13,scatter:1,scheme:2,schneier:2,sci:4,scienc:[2,4,13],scientif:1,scientist:13,scikit:[],scinam:1,scipi:3,scratch:7,screen:13,scroll:7,search:0,search_str:0,seattl:12,second:13,secreci:2,secret:[2,10],securityandtechnolog:6,see:[1,7,12,13],seed:[],seek:13,seem:[1,2,13],select:13,self:[1,2],sens:13,sensor:0,sent:13,septemb:12,seri:[4,5,7,14],serv:[],servic:6,set:13,set_titl:0,set_xlabel:0,setophaga:1,setup:13,sever:13,shaikh:13,shaker:13,share:[11,13],shoot:13,shot:12,should:[1,11,13],show:[0,1],side:3,sign:[],signifi:3,significant_autopct:0,significant_label:0,similar:13,simon:5,simplest:[],size:0,slight:[],slot:13,slow:2,small:12,so:[1,13],softwar:13,solut:[1,2],solv:[3,13],some:[1,4,7,11,12,13],someon:13,someth:[1,13],sometim:13,somewhat:[1,2],somewher:1,son:4,sort:13,sort_valu:0,sound:13,sourc:[13,14],space:13,span:[],speciescod:1,specif:11,speedup:3,spend:[7,13],spent:[7,13],sphinx:[],split:0,spoke:12,spout:11,sprint:[],squar:3,ssc:0,stack:0,stand:13,stanford:2,start:[3,12,13],startangl:0,stat:3,state:[],statist:11,statu:5,steampunk:4,stephen:11,stick:13,still:13,stop:4,storag:0,store:[],stori:11,str:[0,3,9],stream:7,street:[1,12],strengthen:13,string:[9,15],strongli:7,structur:[5,11],struggl:13,student:2,studi:2,stumpi:[],stunt:12,subid:1,submit:13,subplot:[0,1],subscrib:11,subscript:11,substandard:7,substitut:3,success:13,successfulli:13,sum:0,sunset:12,supervis:7,suprisingli:11,sure:13,surf:12,surround:11,survei:2,swahaw:1,swainson:1,swainsoni:1,sweat:12,syllabu:2,syntax:[],system:[0,5,7],t:[3,4,7,11,12],tabl:13,tackl:13,tactic:11,tag:13,tail:1,take:[7,10,11,13],taken:[12,13],tale:4,talk:[12,13],task:7,tatter:11,taught:13,tdameritrad:14,team:[8,13],tech:16,techniqu:5,technolog:0,techtransf:0,tell:12,test:[3,13],tex:[],text:[0,1,10,11],textbook:2,than:[11,13],thank:13,thei:[1,5,11,13],them:[0,7,11],thenumbersmason:15,theorem:3,thi:[1,4,5,7,10,11,12,13],thing:[11,13],think:13,those:[1,11],though:12,thought:13,three:4,threw:12,through:[2,3,7,11,13,16],tick:13,tijuana:12,time:[1,2,5,7,13,14],tip:[12,13],titl:0,tmp:[],todo:1,togeth:[11,13],toi:13,took:2,tool:[],top_level:0,total:3,tourist:12,toward:12,town:11,traceback:[],tracker:13,tradit:11,train:[7,13],transform:10,tree:13,troubl:13,truncat:1,trust:1,turn:[12,13],tweet:13,twenti:2,twitter:[13,16],two:[5,7,11,12,13],type:[1,3,15],u:3,uk:11,umbrella:13,unc:8,uncertainti:[1,7],undefin:0,under:[4,13],underli:13,understand:[2,13],unfinish:13,unintend:13,uniqu:1,unique_id:0,unit:13,univers:8,unk1:0,unk2:0,unk3:0,unk4:0,unlik:1,unsupervis:7,until:1,up:[1,7,11],updat:[5,13],url:[0,1],us:[5,7,8,10,13,16],usa:1,user:1,v2:1,v:[0,3],valid:[1,2],valu:0,valuabl:13,valueerror:3,variat:[],ve:11,vendor:5,venic:1,veri:[2,12,13],version:13,vi:13,virtual:13,visibl:1,visit:13,voic:13,volunt:13,vs:13,vulner:5,w:3,wa:[6,11,12,13],wai:[11,13],wander:16,want:[13,14],warbler:1,warn:3,wast:13,water:12,we:[0,1,7,10,13,14],weak:2,websit:0,welcom:[10,13],well:[4,12],wendi:[],were:[1,13],west:16,what:[3,9,13],when:[1,7,12],where:[7,13],wherea:[],whether:[],which:[10,11,13],who:[6,11,13],whole:13,why:[1,11,13],wife:11,wild:[4,11],willing:13,willison:5,win:[7,13],wise:13,wit:[11,12],within:13,without:[12,13],won:4,wordcloud:0,work:[7,11,13,16],workflow:13,world:11,worri:13,worthwhil:1,would:[1,2,7,13],wrapper:13,write:[11,13],written:[],www:0,x:[1,3,7,10],xdata:7,y:[1,3,10],yard:[1,12],year:[2,13],yellow:1,yerwar:1,yesterdai:13,yorker:11,you:[1,7,9,10,11,12,13],young:13,your:[1,7,11,13],yy_gel_2_ebhaqf_bs_ebg13_ujdsftmh:9,z:[1,3,7],zero:0,zoom:7},titles:["NASA Data","Cornell eBird","Cryptanalysis Curriculum","Crypto Tools","Fiction","Git Scraping","Interview with Xinof","Data Labeling Tip","Matplotblog","PicoCTF Challenge: Mod26","PicoCTF Challenge: No Padding, No Problem","Nonfiction","Photography","Scikit-Learn Sprint","STUMPY Tutorial","PicoCTF Challenge: The Numbers","Blog"],titleterms:{"7":1,"do":0,And:0,In:2,No:10,The:15,about:16,ad:[],ar:[],base:3,bit:3,block:[],blog:16,certain:0,challeng:[9,10,15],charact:3,citat:[],code:[],complet:2,content:[],cornel:1,cryptanalysi:2,crypto:3,curriculum:2,dai:1,data:[0,1,7],direct:[],ebird:1,execut:[],explor:1,fiction:4,file:[],found:2,get:0,git:5,host:0,interview:6,label:7,larg:3,learn:13,manipul:3,markdown:[],math:3,matplotblog:8,me:16,mod26:9,myst:[],nasa:0,need:2,nonfict:11,notebook:[],number:[3,15],observ:1,output:[],pad:10,past:1,patent:0,photographi:12,picoctf:[9,10,15],problem:10,progress:2,review:2,role:[],scikit:13,scrape:5,shortcut:3,softwar:0,sourc:0,special:0,sprint:13,statist:3,still:2,string:3,stumpi:14,tip:7,tool:3,tutori:14,us:1,what:0,where:0,who:0,xinof:6,your:[]}})

diff --git a/content/NASA.html b/content/NASA.html
@@ -651,7 +651,6 @@ dtype: int64
     <span class="n">counterclock</span><span class="o">=</span><span class="kc">False</span><span class="p">,</span>
     <span class="n">colors</span><span class="o">=</span><span class="n">colors</span><span class="p">,</span>
     <span class="n">explode</span><span class="o">=</span><span class="n">v</span><span class="p">,</span>
-    <span class="n">shadow</span><span class="o">=</span><span class="kc">True</span>
 <span class="p">)</span>
 <span class="n">plt</span><span class="o">.</span><span class="n">title</span><span class="p">(</span><span class="s2">&quot;NASA Software by Hosting Website&quot;</span><span class="p">)</span>
 <span class="n">plt</span><span class="o">.</span><span class="n">show</span><span class="p">()</span>
